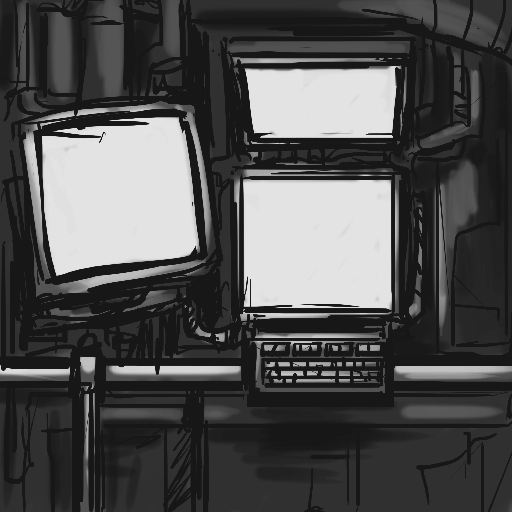
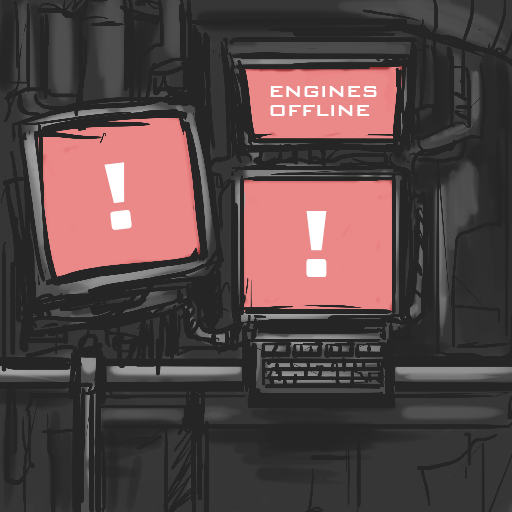
Art updates

diff --git a/src/GameResources.js b/src/GameResources.js
@@ -63,6 +63,7 @@ var GameResources = (function() {
 		_Image("console_bridge_2"),
 		_Image("engine_room_active"),
 		_Image("engine_room_computer"),
+		_Image("engine_room_computer_on"),
 		_Image("engine_room_core"),
 		_Image("engine_room"),
 		_Image("escape_pod_or_door"),
@@ -73,6 +74,7 @@ var GameResources = (function() {
 		_Image("start_rubble"),
 		_Image("tube_dude_dead"),
 		_Image("tube_dudes"),
+		_Image("tube_dudes_attack"),
 		_Image("tube_grem_attack"),
 		_Image("tube_grem_dead"),
 		_Image("tube_grem"),
